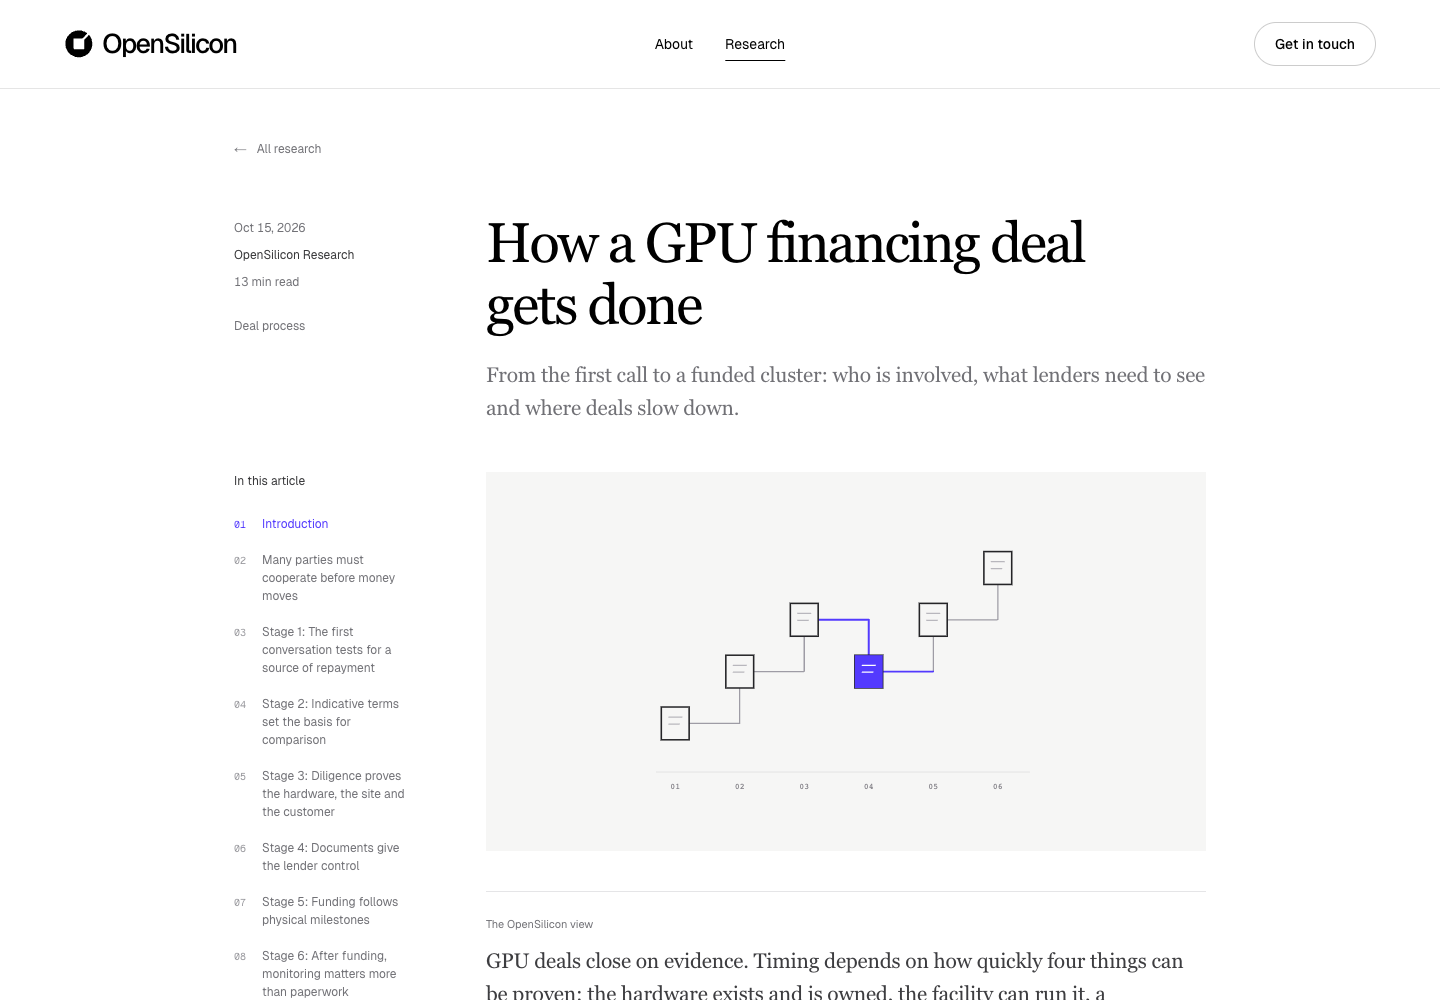
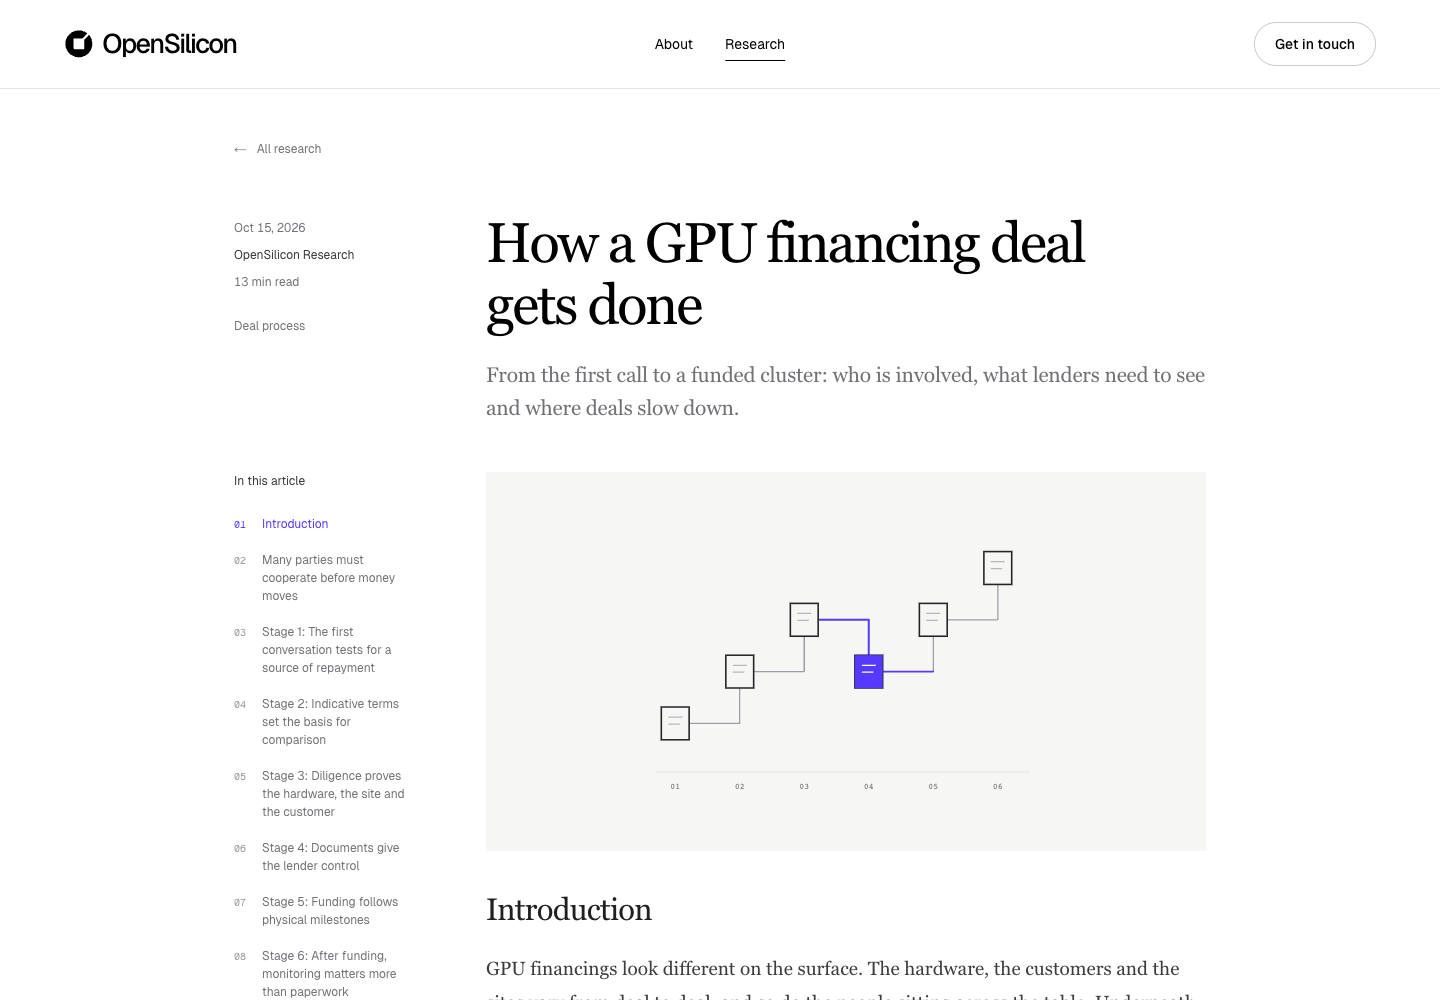
Remove the separate summary block from every research article

Changed region(s): [[0.3125, 0.93, 0.8125, 1.0], [0.3438, 0.899, 0.4688, 0.93]]

diff --git a/app/research/research.css b/app/research/research.css
@@ -51,9 +51,6 @@
 .research-contents a:hover, .research-contents a[aria-current="location"], .research-contents a[aria-current="location"] .research-contents-number { color: var(--accent); }
 .research-top-link { display: flex; justify-content: space-between; align-items: center; margin-top: 20px; padding-top: 16px; border-top: 1px solid var(--research-rule); color: var(--research-muted); font-size: 12px; }
 .research-contents-mobile { display: none; }
-.research-takeaway { margin-bottom: 44px; padding-block: 24px; border-block: 1px solid var(--research-rule); }
-.research-takeaway > .research-eyebrow { margin-bottom: 12px; font-size: 11px; }
-.research-takeaway > p:last-child { color: #3d3d40; font-family: var(--research-serif); font-size: 21px; line-height: 1.6; letter-spacing: -.01em; }
 
 /* Research text stays readable; evidence uses the interface face for precision. */
 .research-prose { color: #3d3d40; font-family: var(--research-serif); font-size: 19px; line-height: 1.8; overflow-wrap: break-word; }
@@ -154,8 +151,6 @@
   .research-article-description { margin-top: 20px; font-size: 19px; line-height: 1.55; }
   .research-article-masthead { margin-bottom: 28px; }
   .research-article-cover { margin-bottom: 28px; aspect-ratio: 1.65 / 1; }
-  .research-takeaway { margin-bottom: 32px; padding-block: 20px; }
-  .research-takeaway > p:last-child { font-size: 19px; }
   .research-prose { font-size: 18px; line-height: 1.75; }
   .research-prose h2 { margin-top: 40px; font-size: 28px; }
   .research-prose h3 { font-size: 23px; }

diff --git a/app/research/[slug]/page.tsx b/app/research/[slug]/page.tsx
@@ -55,7 +55,6 @@ export default async function ResearchArticlePage({ params }: { params: Promise<
             <div className={`research-article-cover research-cover${post.cover.startsWith("/hardware/") ? " research-cover-hardware" : ""}`}>
               <Image src={post.cover} alt={post.coverAlt} fill sizes="(max-width: 760px) 100vw, 720px" preload />
             </div>
-            <aside className="research-takeaway"><p className="research-eyebrow">The OpenSilicon view</p><p>{post.takeaway}</p></aside>
             <div className="research-prose"><ReactMarkdown remarkPlugins={[remarkGfm]} components={markdownComponents}>{post.content}</ReactMarkdown></div>
             <details className="research-sources">
               <summary><span>Sources &amp; references <span className="research-source-count">{post.sources.length}</span></span><span className="research-sources-toggle" aria-hidden="true">+</span></summary>

diff --git a/docs/research/design/README.md b/docs/research/design/README.md
@@ -4,7 +4,7 @@ The October 16 revision treats Research as a small publication. The index has a 
 
 Each published article has an original SVG cover in `public/research/covers/`. The five covers share black and gray linework, OpenSilicon purple and a neutral background. They represent the article's subject; schematic curves are conceptual illustrations, not additional market data. All five SVGs total 8,299 bytes and contain no external assets.
 
-Article pages use a shared title and reading grid, marginal author/date information on desktop, serif prose, neutral tables and an unfilled takeaway separated by fine rules. The index ends after the articles with no separate contact prompt or divider; article contact actions are quiet text links. The contents rail, mobile contents disclosure, header progress line, references and full-size figures remain available. Published article text, dates, authors, sources and publication status are unchanged.
+Article pages use a shared title and reading grid, marginal author/date information on desktop, serif prose, neutral tables and a direct transition into the article body, without the separate “The OpenSilicon view” summary. The index ends after the articles with no separate contact prompt or divider; article contact actions are quiet text links. The contents rail, mobile contents disclosure, header progress line, references and full-size figures remain available. Published article text, dates, authors, sources and publication status are unchanged.
 
 ## Verification
 
@@ -16,7 +16,7 @@ Verified against the production build on October 16, 2026:
 - `node scripts/verify-site.mjs http://127.0.0.1:3030 production`: 56 checks pass, including private draft URLs and archive restrictions.
 - Chrome: index and all five articles at 1440, 1024, 768, 390 and 320px, 30 page/viewport combinations. No horizontal document overflow, broken loaded images, missing contents anchors or page errors.
 - Browser interactions: desktop and mobile chapter jumps, active chapter indication, mobile contents closure, references expansion, article links and return to the index. See [browser checks](publication/browser-checks.json).
-- At 390 × 844px the lead article title starts at 457px, inside the initial viewport. At the same width the progress line spans y=71–73px, inside the 73px header. The takeaway has a transparent background and no horizontal padding.
+- At 390 × 844px the lead article title starts at 457px, inside the initial viewport. At the same width the progress line spans y=71–73px, inside the 73px header.
 
 Responsive checks use desktop Chrome at different viewport sizes; they are not a native Safari device test.
 
